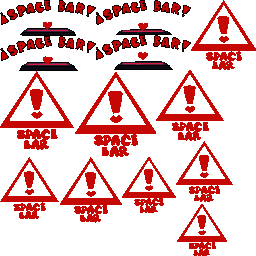
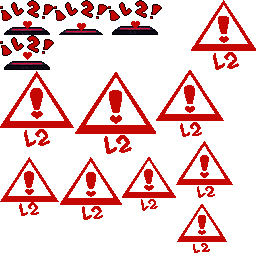
credit stuff and new pog dodge labels!

diff --git a/src/stage/week2.c b/src/stage/week2.c
@@ -35,10 +35,10 @@ typedef struct
 
 //space animation and rects
 static const CharFrame space_frame[] = {
-	{0, {  0,   0,  96,  36}, { 1,  0}}, //0 left 1
-	{0, { 96,   0,  95,  35}, { 0,  0}}, //1 left 2
-	{0, {  0,  36,  96,  35}, { 1,  0}}, //2 left 3
-	{0, { 96,  35,  95,  35}, { 0,  0}}, //3 left 4
+	{0, {  0,   0,  54,  35}, { -20,  0}}, //0 left 1
+	{0, { 54,   0,  54,  35}, { -20,  0}}, //1 left 2
+	{0, {108,   0,  54,  35}, { -20,  0}}, //2 left 3
+	{0, {  0,  35,  54,  35}, { -20,  0}}, //3 left 4
 };
 
 static const Animation space_anim[] = {

diff --git a/src/menu.c b/src/menu.c
@@ -741,7 +741,7 @@ void Menu_Tick(void)
 			 check = false;
 			}
 			 //debug thing
-			FntPrint("moving %d", moving);
+			//FntPrint("moving %d", moving);
             
 			switch(menu.select)
 			{
@@ -1085,6 +1085,7 @@ void Menu_Tick(void)
 			} menu_options[] = {
 				{0xFF9271FD, "PORTED BY",NULL,-1},
 				{0xFF9271FD, "UNSTOPABLE",  "SPRITES CODE OFFSETS",0},
+				{0xFF9271FD, "SPARK", "MADE SICK DODGE LABELS",10},
 				{0xFF9271FD, "IGORSOU", "SPRITES CODE OFFSETS",1},
 				{0xFF9271FD, "",NULL,-1},
 				{0xFF9271FD, "PLAYTESTERS",NULL,-1},
